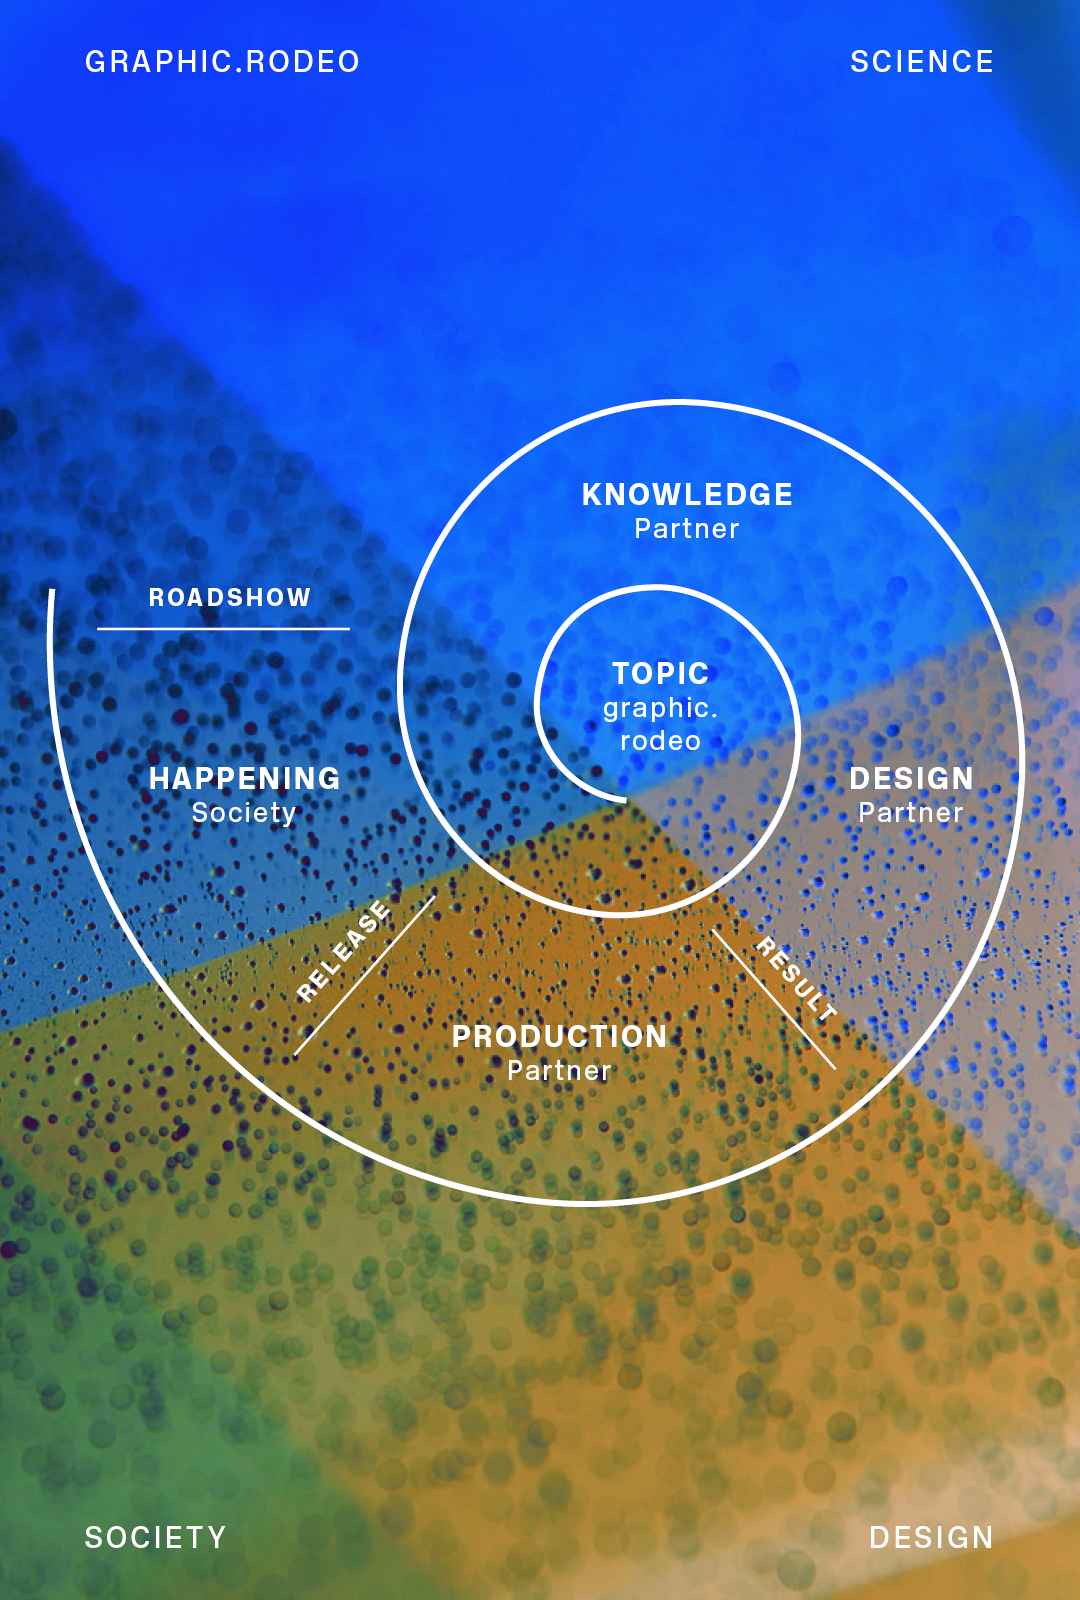
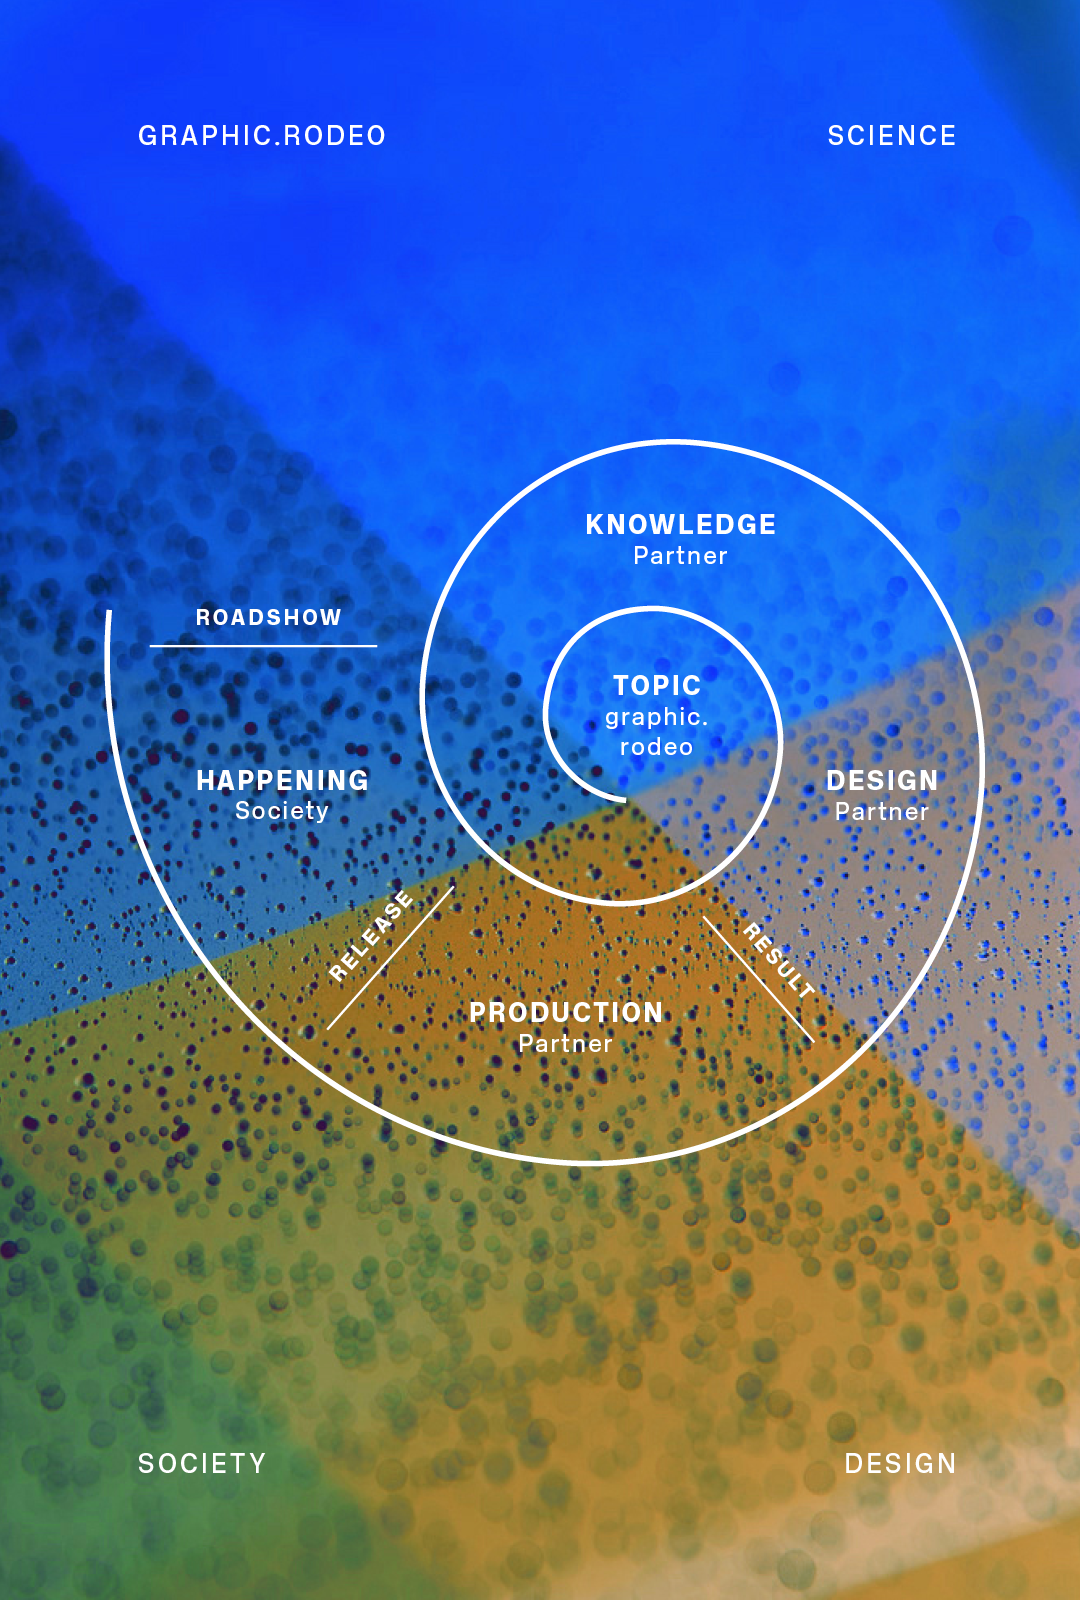
update bg imgs

diff --git a/css/style.css b/css/style.css
@@ -40,8 +40,9 @@ aside#rodeo-pic {
   height: var(--rodeo-pic-height);
   /* background: url(/assets/img/rodeo.jpg); */
   /* background: url(/assets/im/logog/Key_graphic_rodeo.jpg); */
-  background: url(/assets/img/Schema.svg);
-  background-size: contain;
+  /* background: url(/assets/img/Schema.svg); */
+  background: url(/assets/img/High_KV_graphic_rodeo.png);
+  background-size: cover;
   background-position: center center;
   background-repeat: no-repeat;
   background-color: black;
@@ -483,7 +484,11 @@ aside#desktop-nothing {
     left: auto;
     margin: 0 auto; /* Greift aus unerklärlichen gründen nicht. */
     /* left: 20vw; */
+    background: url(/assets/img/Wide_KV_graphic_rodeo.png);
+    background-size: cover;
+    background-position: center center;
   }
+
   div#content {
     /* background: black; */
   }
